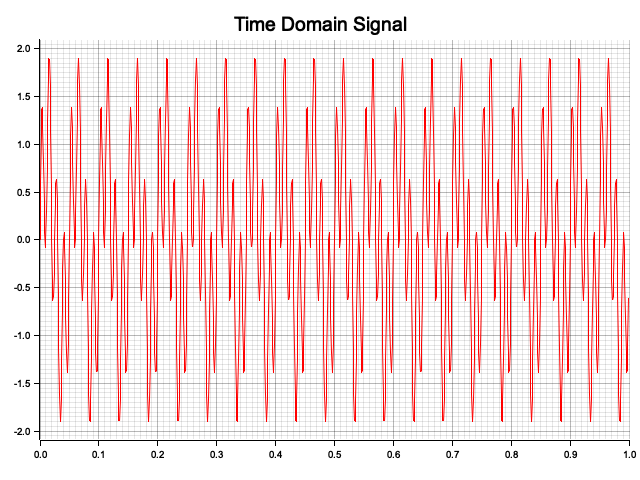
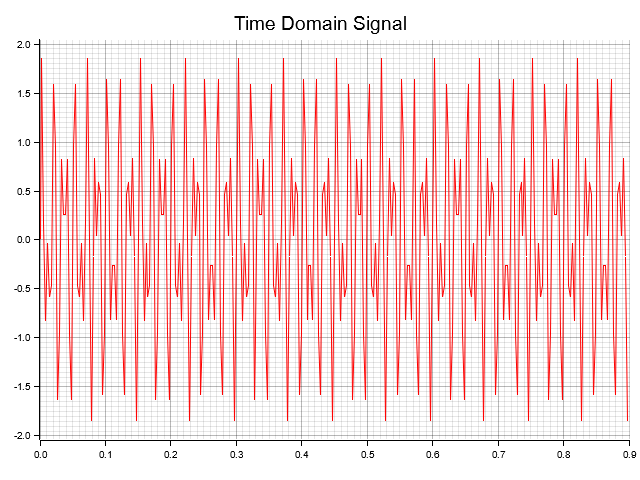
bug-fix frequency axis multiply instead of divide

diff --git a/src/main.rs b/src/main.rs
@@ -6,10 +6,10 @@ use rustfft::num_traits::Zero;
 
 fn main() -> Result<(), Box<dyn std::error::Error>> {
     // Defining current static controls
-    let curve_points: usize = 1000;
-    let sampling_rate: f64 = 0.001;
-    let frequency1: f64 = 20.0;
-    let frequency2: f64 = 80.0;
+    let curve_points: usize = 300;
+    let sampling_rate: f64 = 0.003;
+    let frequency1: f64 = 60.0;
+    let frequency2: f64 = 100.0;
 
 
     let x_values: Vec<f64> = (0..curve_points)
@@ -62,12 +62,12 @@ fn main() -> Result<(), Box<dyn std::error::Error>> {
     let mut signal: Vec<Complex<f64>> = y_values.iter().map(|&y| Complex::new(y, 0.0)).collect();
     let mut scratch: Vec<Complex<f64>> = vec![Complex::default(); fft.get_inplace_scratch_len()];
     fft.process_with_scratch(&mut signal, &mut scratch);
-    let spectrum: Vec<Complex<f64>> = signal;
+    let mut spectrum: Vec<Complex<f64>> = signal;
     
-    let spectrum_shifted: Vec<Complex<f64>> = fft_shift(&spectrum);
+    let spectrum_shifted: Vec<Complex<f64>> = fft_shift(&mut spectrum);
 
     let frequencies: Vec<f64> = (-(curve_points as i64) / 2..(curve_points as i64) / 2)
-        .map(|i| (i as f64) * (sampling_rate * curve_points as f64))
+        .map(|i| (i as f64) / (sampling_rate * curve_points as f64))
         .collect();
     
     let magnitudes: Vec<f64> = spectrum_shifted.iter()
@@ -83,7 +83,7 @@ fn main() -> Result<(), Box<dyn std::error::Error>> {
         .y_label_area_size(30)
         .build_cartesian_2d((-(curve_points as f64) / 2.0) / (sampling_rate * curve_points as f64)..((curve_points as f64) / 2.0) / (sampling_rate * curve_points as f64), 0f64..1.2f64)?;
 
-    chart.configure_mesh().draw()?;
+    chart.configure_mesh().draw()?; 
 
     chart.draw_series(LineSeries::new(
         frequencies.iter().zip(magnitudes.iter()).map(|(&x, &y)| (x, y)),
